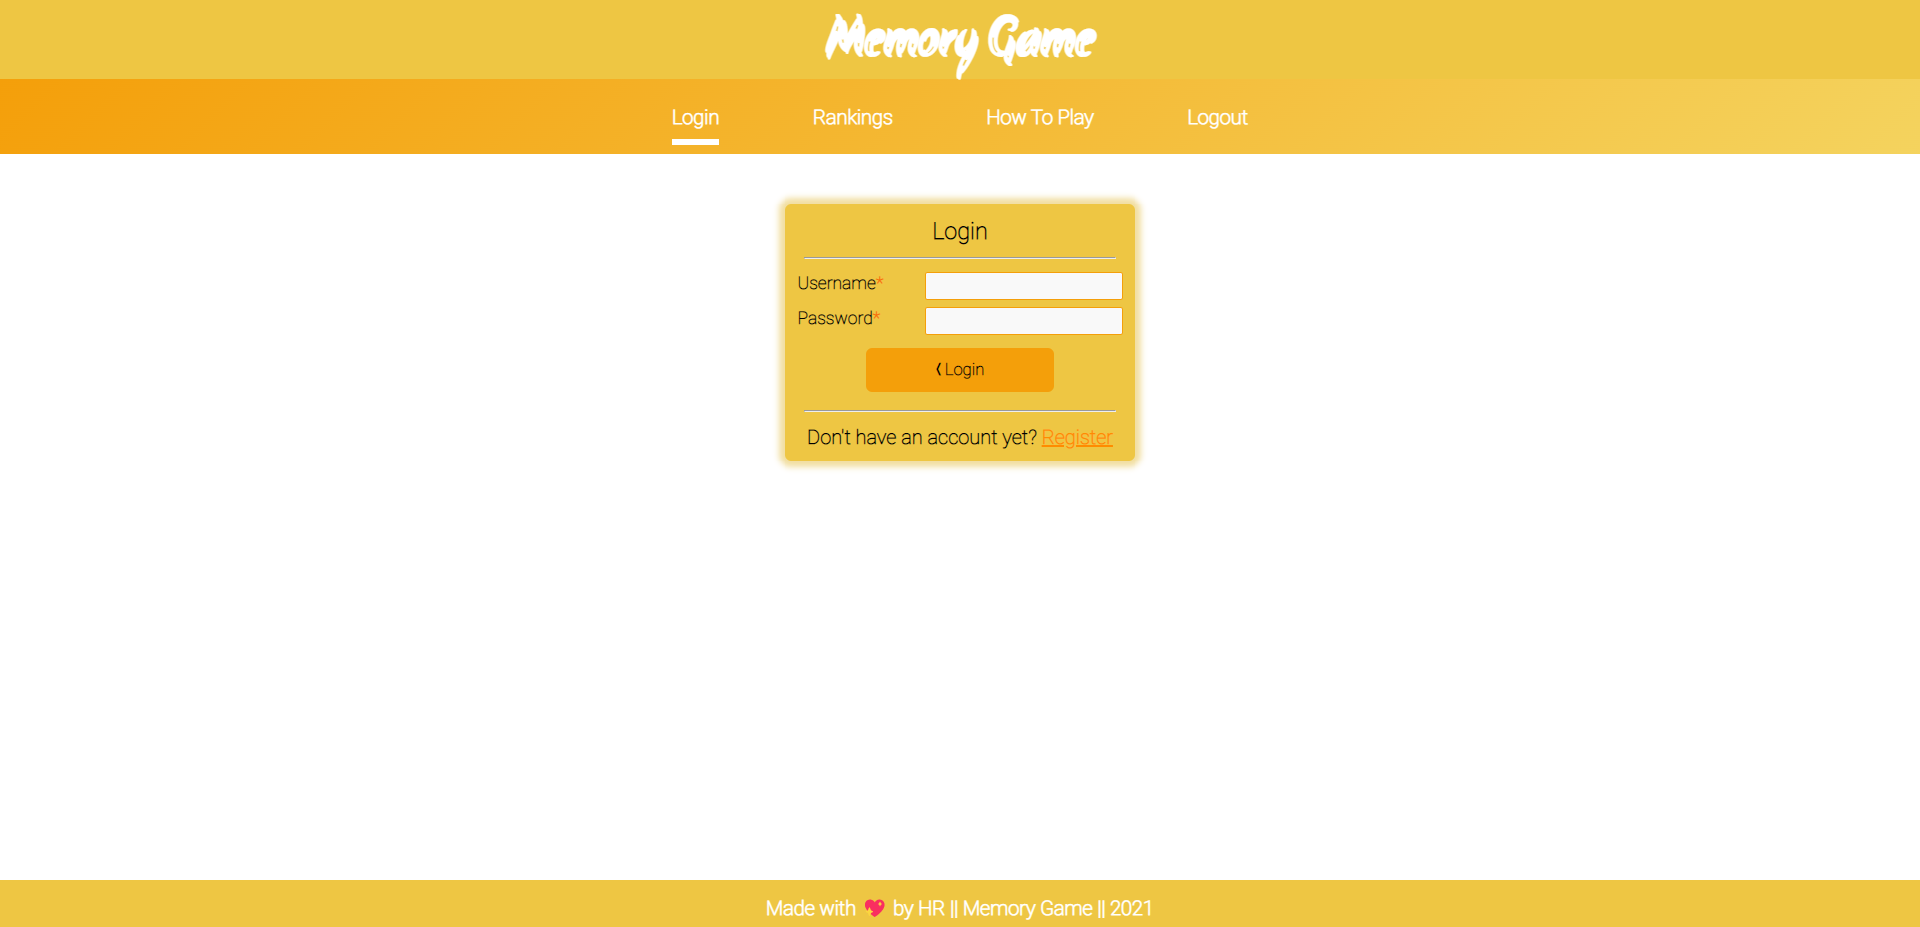
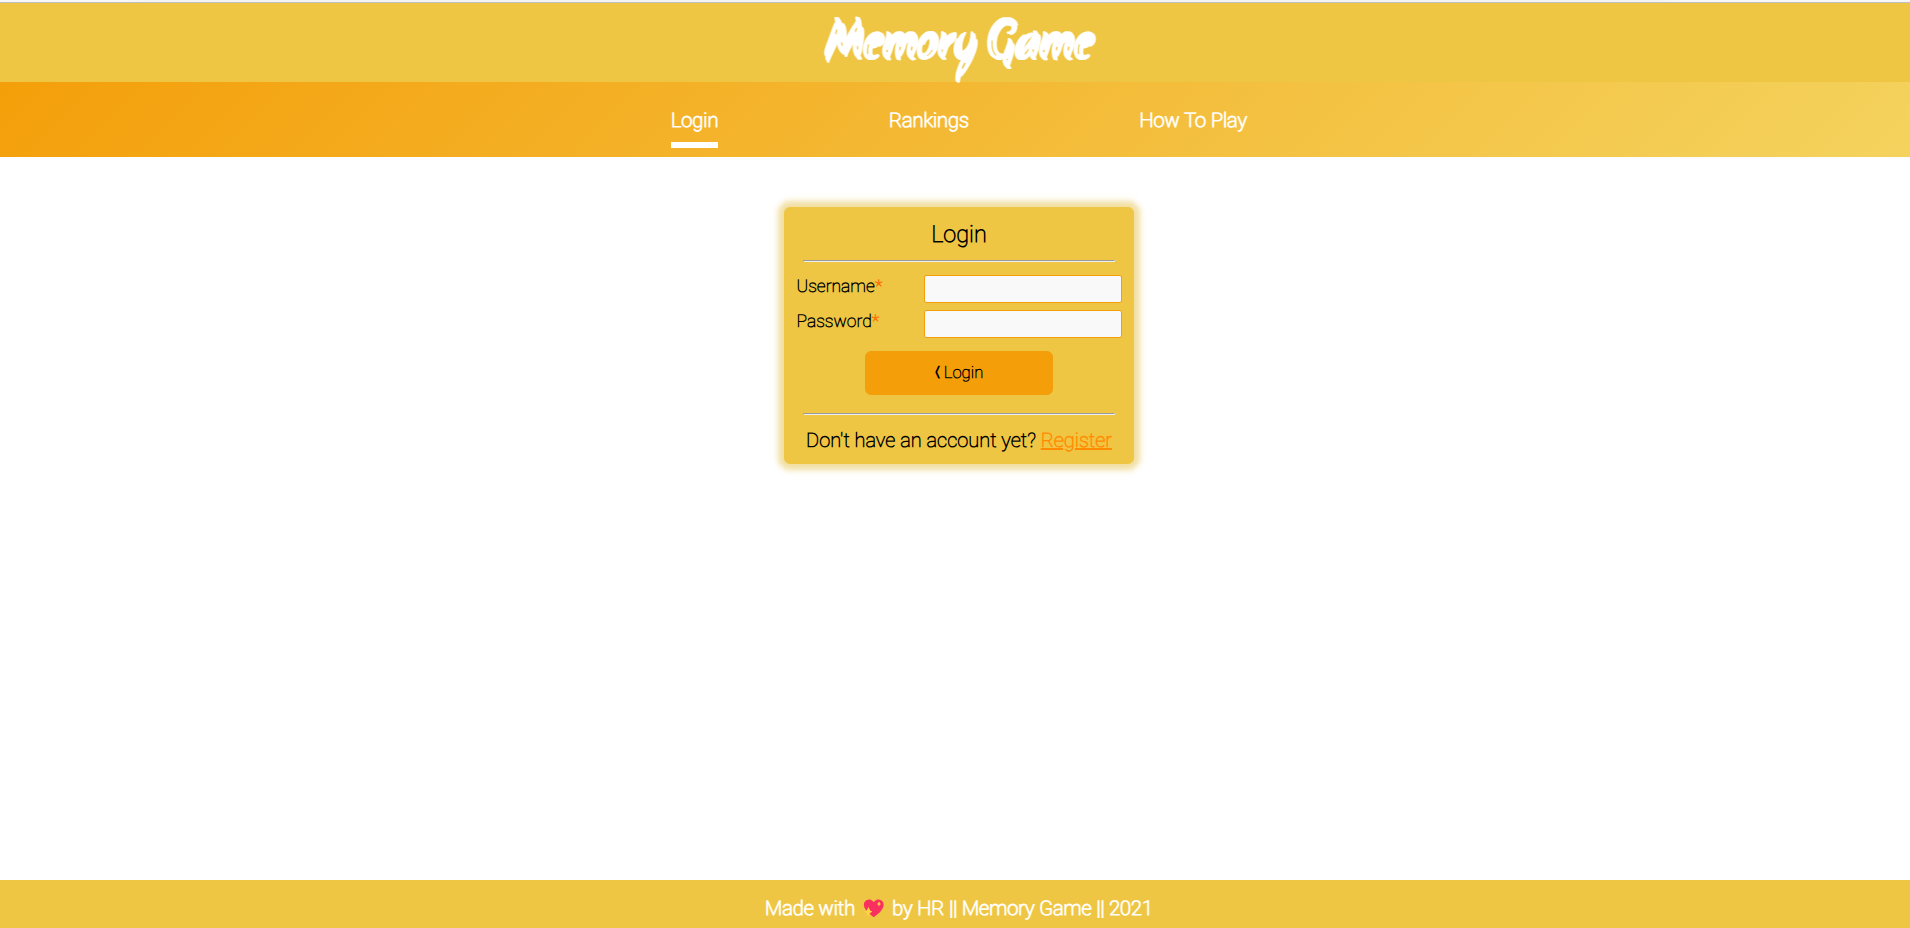
Create sessions, update UI accordingly

diff --git a/js/account.js b/js/account.js
@@ -51,49 +51,39 @@ function register() {
       }     
     }  
 } 
-  
-    
+   
 //function used for login
 function login() {
-  
-    //access and store entered value inputs from login form
-    let username1 = document.getElementById('userUsernameInput').value;
-    let password2 = document.getElementById('userPwInput').value;
+  let username1 = document.getElementById('userUsernameInput').value;
+  let password2 = document.getElementById('userPwInput').value;
+  let loginFeedback = document.getElementById('loginFeedback');
 
-    
-    let loginFeedback = document.getElementById('loginFeedback');
-  
-    //if username entered is not stored in local storage
-    if (localStorage[username1] == undefined) {
-        //alert the user
-        loginFeedback.innerHTML = 'Account does not exist.';
-    } else {  //if the username entered is found in the local storage
-        //retrieve the username 
-        let userObj = JSON.parse(localStorage[username1]);
-        
-        // if the correct password is entered
-        if (password2 == userObj.pw) {
-
+  if (localStorage[username1] == undefined) {
+      loginFeedback.innerHTML = 'Account does not exist.';
+  } else {
+      let userObj = JSON.parse(localStorage[username1]);
+      if (password2 == userObj.pw) {
           loginFeedback.innerHTML = 'Success';
-
-          //store username in session storage
           sessionStorage.loggedInUsr = userObj.username;
-  
-          //clear all input fields only when the user has succesfully logged in
           document.getElementById("loginForm").reset();
 
+          // Set PHP session via AJAX
+          fetch('set_session.php', {
+              method: 'POST',
+              headers: {
+                  'Content-Type': 'application/json'
+              },
+              body: JSON.stringify({ username: userObj.username })
+          });
 
-          setTimeout( () => {
-            //redirect to game page
-            location.replace('index.php');
-          }, "2000")
-  
-        }else { //if incorrect password entered
+          setTimeout(() => {
+              location.replace('index.php');
+          }, 2000);
+      } else {
           loginFeedback.innerHTML = "Incorrect password.";
       }
-    }
+  }
 }
-
 
 //Check if a user is logged in 
 function checkLogin(){

diff --git a/css/nav.css b/css/nav.css
@@ -32,7 +32,7 @@ nav li{
     list-style: none;
 }
 
-nav li a{
+nav li a, .nav-username{
     text-decoration: none;
     color:#fff;
     font-weight: bold;

diff --git a/common.php b/common.php
@@ -1,56 +1,73 @@
 <?php
-    
-    function outputHeader($title){
-        echo '<!DOCTYPE html>
-            <html lang="en">
-            <head>
-                <meta charset="UTF-8">
-                <meta name="viewport" content="width=device-width, initial-scale=1">
-                <title>'.$title.'</title>
-                <link rel="stylesheet" href="./css/style.css">
-                <link rel="stylesheet" href="./css/index.css">
-                <link rel="stylesheet" href="./css/nav.css">
-                <link rel="stylesheet" href="./css/game.css">
-                <link rel="stylesheet" href="./css/rules.css">
-                <link rel="stylesheet" href="https://cdnjs.cloudflare.com/ajax/libs/font-awesome/4.7.0/css/font-awesome.min.css">
-            </head>
-            <body>';
-    }
- 
-    function outputBanner(){
-        echo '
-        <div id="banner" class="centerText">
-            <a href="index.php"><h1>Memory Game</h1></a>
-        </div>
-        ';
-    }
+session_start();
 
-    function outputNavBar($currentPage){
-        echo '
-        <nav>
-            <ul class="nav-links">'; 
+function outputHeader($title){
+    echo '<!DOCTYPE html>
+        <html lang="en">
+        <head>
+            <meta charset="UTF-8">
+            <meta name="viewport" content="width=device-width, initial-scale=1">
+            <title>'.$title.'</title>
+            <link rel="stylesheet" href="./css/style.css">
+            <link rel="stylesheet" href="./css/index.css">
+            <link rel="stylesheet" href="./css/nav.css">
+            <link rel="stylesheet" href="./css/game.css">
+            <link rel="stylesheet" href="./css/rules.css">
+            <link rel="stylesheet" href="https://cdnjs.cloudflare.com/ajax/libs/font-awesome/4.7.0/css/font-awesome.min.css">
+        </head>
+        <body>';
+}
 
-            $linkNames = array("Login", "Rankings", "How To Play", "Logout");
-            $linkAddresses = array("login.php", "rankings.php", "howtoplay.php", "logout.php");
+function outputBanner(){
+    echo '
+    <div id="banner" class="centerText">
+        <a href="index.php"><h1>Memory Game</h1></a>
+    </div>
+    ';
+}
 
-            //Output the links
-            for($x=0; $x<4; $x++){
-                echo '<li><a ';
-                if($linkNames[$x] == $currentPage){
-                    echo 'class="selected"';
-                }
-                echo 'href="'.$linkAddresses[$x].'">'.$linkNames[$x].'</a></li>';
+function outputNavBar($currentPage){
+    echo '
+    <nav>
+        <ul class="nav-links">'; 
+
+        $linkNames = array("Login", "Rankings", "How To Play", "Logout");
+        $linkAddresses = array("login.php", "rankings.php", "howtoplay.php", "logout.php");
+
+        // Check if the user is logged in
+        $isLoggedIn = isset($_SESSION['username']);
+
+        if ($isLoggedIn) {
+            echo '<li class="nav-username">Hi ' . $_SESSION['username'] . '!</li>';
+        }
+        //Output the links
+        for ($x = 0; $x < 4; $x++) {
+            if ($isLoggedIn && $linkNames[$x] == "Login") {
+                continue;
             }
+            if (!$isLoggedIn && $linkNames[$x] == "Logout") {
+                continue;
+            }
+            echo '<li><a ';
+            if ($linkNames[$x] == $currentPage) {
+                echo 'class="selected"';
+            }
+            echo 'href="' . $linkAddresses[$x] . '"';
+            if ($linkNames[$x] == "Logout") {
+                echo ' onclick="logout()"';
+            }
+            echo '>' . $linkNames[$x] . '</a></li>';
+        }
         echo '
-            </ul>  
-        </nav>';
-    }
+        </ul>  
+    </nav>';
+}
 
-    function outputFooter(){
-        echo '
-            </body>
-            <footer class="centerText">
-                <p><b> Made with 💖 by <a href="https://github.com/haingo-raz">HR<a> || Memory Game || 2021</b></p>
-            </footer>
-        </html>';
-    }
+function outputFooter(){
+    echo '
+        </body>
+        <footer class="centerText">
+            <p><b> Made with 💖 by <a href="https://github.com/haingo-raz">HR<a> || Memory Game || 2021</b></p>
+        </footer>
+    </html>';
+}

diff --git a/logout.php b/logout.php
@@ -1,24 +1,20 @@
+<?php
+session_start();
+session_destroy();
+?>
+
 <script>
-    
-    //The button doesn't work if no user is logged in
-    if (sessionStorage.length == 0){
+    // The button doesn't work if no user is logged in
+    if (sessionStorage.length == 0) {
         alert("No user is logged in!");
-        
-        //redirect to home
+        // Redirect to home
         location.replace("index.php");
-
-    } else{
-
-        //show logout  button
-        document.get
-
-        //clean session storage
+    } else {
+        // Clean session storage
         sessionStorage.clear();
 
-        alert("Logout succesful!")
-
-        //redirect to home
+        alert("Logout successful!");
+        // Redirect to home
         location.replace("index.php");
     }
-
 </script>

diff --git a/set_session.php b/set_session.php
@@ -1,0 +1,7 @@
+<?php
+session_start();
+$data = json_decode(file_get_contents('php://input'), true);
+if (isset($data['username'])) {
+    $_SESSION['username'] = $data['username'];
+}
+?>
